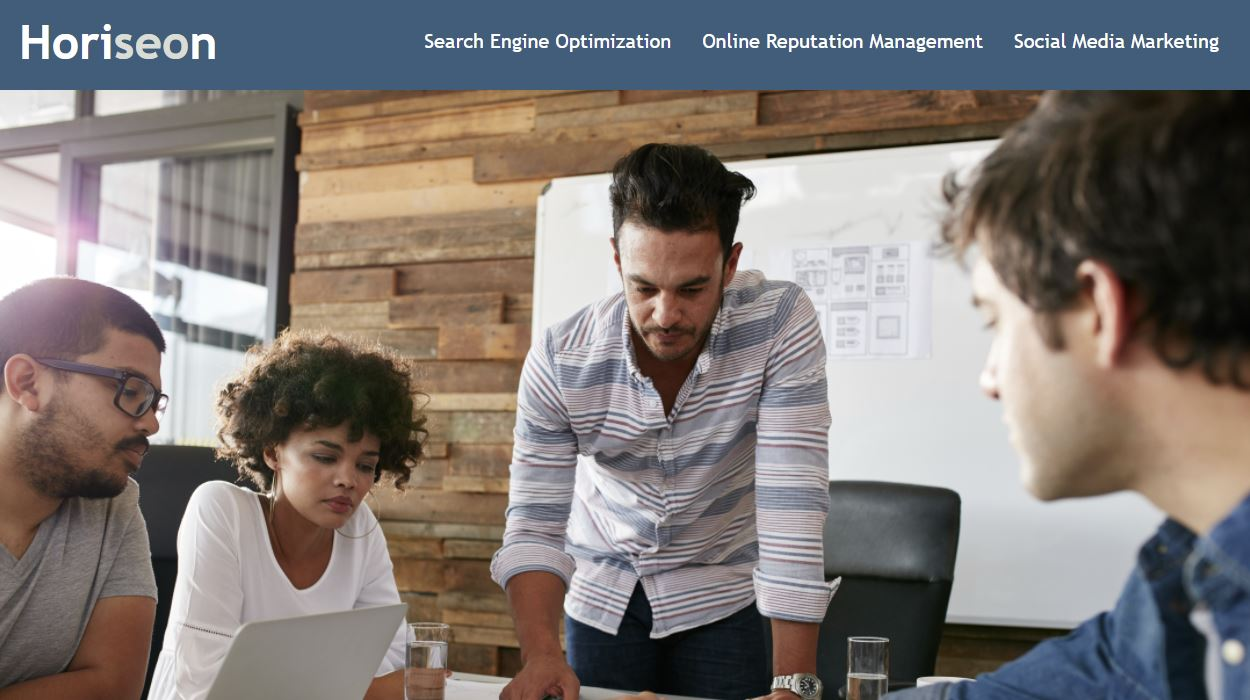
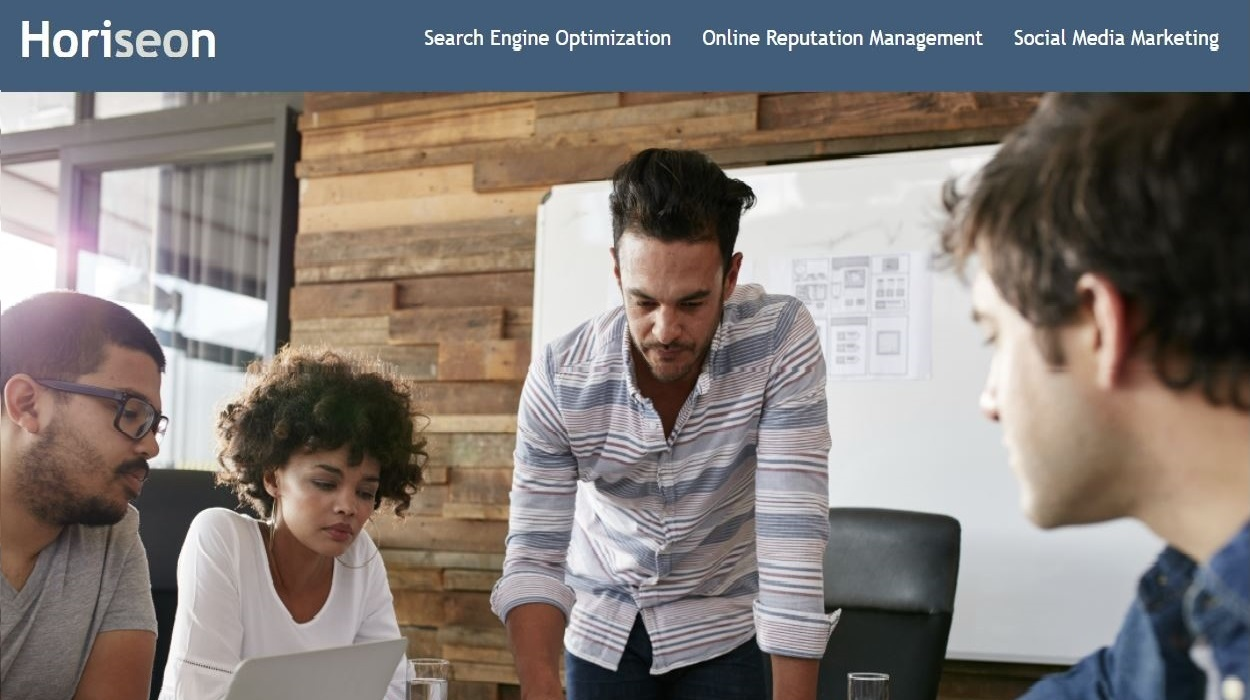
add media queries'

diff --git a/assets/css/style.css b/assets/css/style.css
@@ -111,7 +111,8 @@ header nav ul li a:hover {
 
 .hero img {
     max-width: 100%;
-    height: 400px;
+    max-width: 400px;
+    height: auto;
     border-radius: 50%;
 }
 
@@ -154,12 +155,13 @@ header nav ul li a:hover {
 
 /*work section*/
 .container {
-width: 75%;
-margin-left: 40px;
+    width: 75%;
+    margin-left: 40px;
 }
 
 .large-img {
     width: 100%;
+    margin-bottom: 10px;
 }
 
 .large-img img {
@@ -169,31 +171,34 @@ margin-left: 40px;
     height: auto;
     border: 7px solid;
     border-color: rgb(164, 104, 251);
-    opacity: 0.8;
-    margin-bottom: 10px;
 }
 
 .small-img {
- width: 49.5%;
- 
+    width: 49%;
+    margin-bottom: 10px;
 }
 
-.img-margin {
-    margin-right: 7px;
-}
 
 .small-img img {
     width: 100%;
-    max-width: 565px;
+    max-width: 600px;
     height: auto;
     border: 7px solid;
-    border-color: rgb(164, 104, 251);
-    opacity: 0.8;
-    margin-bottom: 10px;
+    border-color: rgb(164, 104, 251);    
 }
-.row img:hover {
-    opacity: 1.0;
-}
+
+/*image title block*/
+.img-title {
+    position: relative;
+  }
+  .text-block {
+    position: absolute;
+    bottom: 10px;
+    background-color: rgb(164, 104, 251);
+    color: aliceblue;
+    padding-left: 20px;
+    padding-right: 20px;
+  }
 
 /*contact me section*/
 .last-row {
@@ -224,7 +229,7 @@ footer {
     flex-wrap: wrap;
 }
 
-footer h2 {
+footer h4 {
     color: aliceblue;
     font-size: 30px;
     margin: 0;
@@ -234,5 +239,105 @@ footer div {
     line-height: 1.5;
 }  
  
+/* MEDIA QUERY FOR SMALLER DESKTOP SCREENS AND SMALLER */
+@media screen and (max-width: 1165px) {
+    .box {
+        margin-top: 25px;
+        margin-bottom: 25px;
+    }
+      header {
+        padding-bottom: 0;
+        justify-content: center;
+        position: relative;
+      }
+      
+      header nav ul {
+        margin-top: 20px;
+        width: 100%;
+        justify-content: center;
+      }
+    
+      header nav ul li a {
+        font-size: 20px;
+      }
+    
+      footer h2, footer div {
+        text-align: center;
+        width: 100%;
+      }  
 
+      .hero h1 {
+        width: 100%;
+        text-align: center;
+      }
+
+      .box {
+          width: 100%;
+      }
+
+      .section-title {
+          border-right: none;
+          border-bottom: 5px solid;
+          text-align: center;
+      }
+
+      .section-text {
+          width: 100%;
+          margin: 10px 25px;
+      }
+
+      .container {
+          width: 100%;
+          margin: 25px;
+      }
+
+      .last-row {
+          justify-content: space-around;
+    }
+}
+    /* MEDIA QUERY FOR TABLETS AND SMALLER */
+  @media screen and (max-width: 768px) {
+    .box {
+        margin-top: 15px;
+        margin-bottom: 15px;
+    }
+
+    .section-title {
+          font-size: 
+      }
+    .small-img {
+        width: 100%;
+    }
+}
+
+@media screen and (max-width: 600px) {
+
+    .box {
+        margin-top: 10px;
+        margin-bottom: 10px;
+    }
+    .section-text {
+        margin: 5px 15px;
+    }
+
+    .container {
+        margin: 15px;
+    }
+}
+
+
+/* Width at 480px and below */
+@media screen and (max-width: 480px) {
+
+    .box {
+        margin-top: 5px;
+        margin-bottom: 5px;
+    }
+    .hero-top h2 {
+        text-align: center;
+    }
+    .hero img {
+        max-width: 300px;
+    }
+}
 

diff --git a/index.html b/index.html
@@ -69,29 +69,56 @@
     <!--row1-large picture-->   
      <div class="row">
         <div class="large-img">
+            <div class="img-title">
         <a href="https://irynashulim.github.io/run-buddy/">
             <img src="./assets/images/run-boddy.JPG" alt="Run-Boddy landing page screenshot">
+            <div class="text-block">
+                <h3>Run-Buddy</h3>
+                <p>HTML/CSS</p>
+              </div>
+            </div>
           </a>
         </div>
     </div>
 <!--row2-small pictures-->   
     <div class="row">
-    <div class="small-img img-margin">
+    <div class="small-img">
         <a href="https://irynashulim.github.io/Horiseon/">
+            <div class="img-title">
             <img src="./assets/images/horiseon.JPG" alt="Horiseon landing page screenshot">
+            <div class="text-block">
+                <h3>Horiseon</h3>
+                <p>HTML/CSS</p>
+              </div>
+            </div>
         </a>
     </div>
     <div class="small-img">
+        <div class="img-title">
             <img src="./assets/images/placeholder-2.jpg" alt="placeholder">
+            <div class="text-block">
+                <h3>Placeholder</h3>
+              </div>
+            </div>
     </div>
    </div>
 <!--row3-small pictures-->   
     <div class="row">
-        <div class="small-img img-margin">
+        <div class="small-img">
+            <div class="img-title">
             <img src="./assets/images/placeholder-3.jpg" alt="placeholder">
+            <div class="text-block">
+                <h3>Placeholder</h3>
+              </div>
+            </div>
     </div>
     <div class="small-img">
+        <div class="img-title">
         <img src="./assets/images/placeholder-4.jpg" alt="placeholder">
+        <div class="text-block">
+            <h3>Placeholder</h3>
+              </div>
+            </div>
 </div>
     </div>
      </section>
@@ -120,10 +147,9 @@
         </div>
         </section>
 
-<!--Footer-->
 <!-- footer -->
 <footer>
-    <h2>  Made by Iryna Shylim.</h2>
+    <h4>  Made by Iryna Shulim.</h4>
     <div>
          &copy; 2021 Iryna Shulim
     </div>
